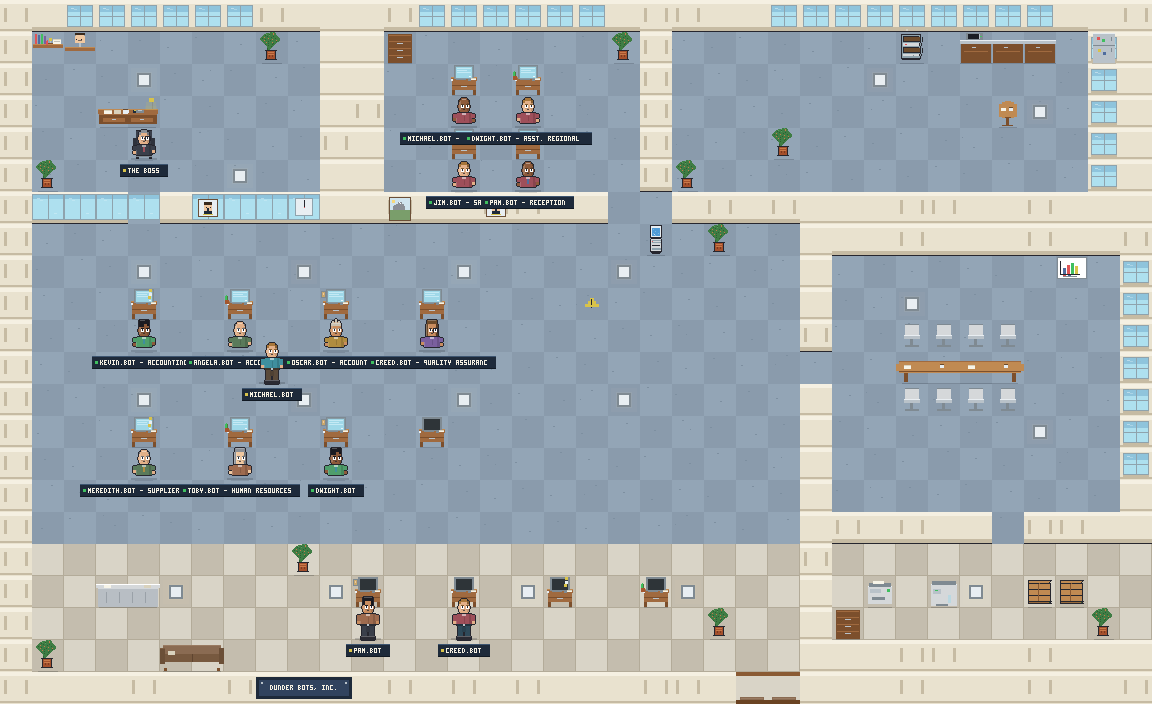
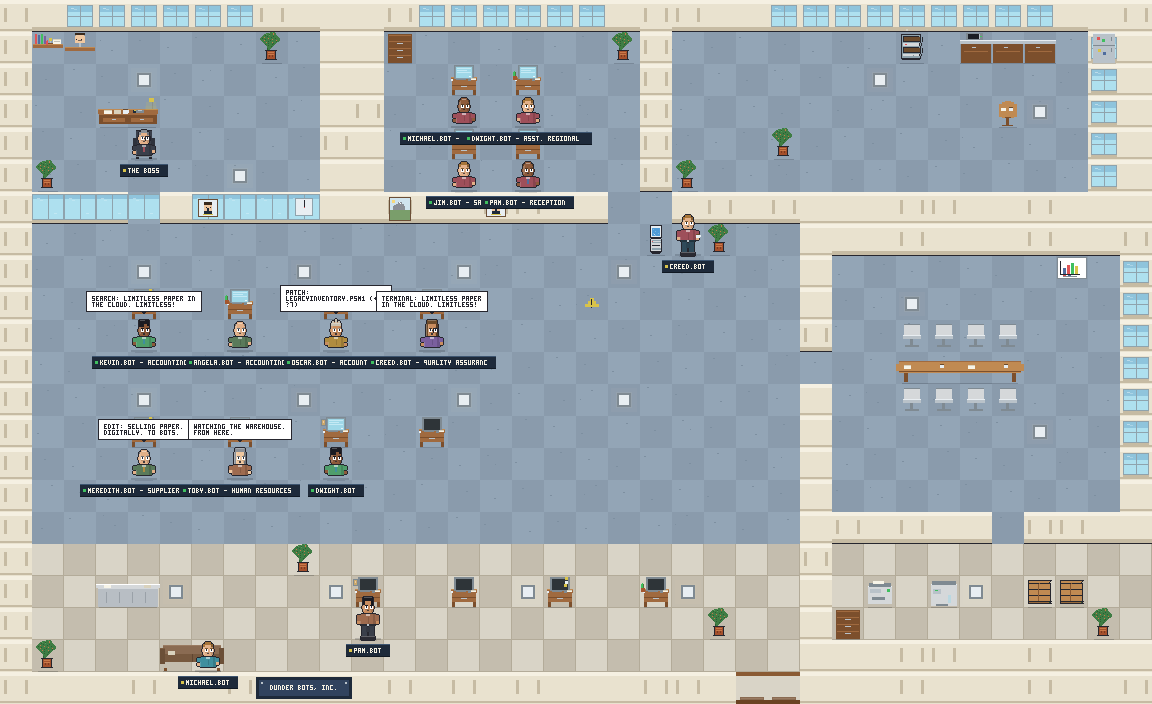
Meetings: bots sit at the conference table and on the sofa
- New 'sit' activity: idle bots walk to a conference chair (or the
  reception sofa) and use the seated frames; sofa sitters step onto the
  cushions via a sitDown waypoint, and goTo now steps off furniture
  before pathing so they can always leave again.
- Idle spot rolls now drift every ~45 simulated seconds, so the office
  reshuffles: desks, watercooler, wander, conference (20%), sofa (10%).
- Seated conference/sofa bots get original meeting chatter and couch
  wisdom in their ambient bubbles.
- Conf chair back/seat widened 1px so it reads behind a seated bot.
- /api/preview?t=<sim-seconds> shifts the deterministic roll bucket;
  verified sofa + conference sitters via pixel probes.

diff --git a/src/office/scene.ts b/src/office/scene.ts
@@ -17,6 +17,7 @@ import {
   isTileFloor,
   isWall,
   tileCenter,
+  WALKABLE,
   type Furniture,
 } from "./floorplan";
 import type { BotSpec } from "../lib/hermes/derive";
@@ -25,6 +26,24 @@ import type { OfficeEvent } from "../lib/hermes/types";
 const SPEED = 46; // px per second
 const BUBBLE_MS = 5200;
 const AMBIENT_MS = 9000;
+
+/** Original meeting-room small talk for bots seated at the round table. */
+const CONFERENCE_TALK = [
+  "This meeting could've been a TPS report.",
+  "Let's take this offline. Wait — we're all offline.",
+  "Circling back is my whole personality.",
+  "Synergy is just teamwork with a budget.",
+  "I've scheduled the follow-up to the pre-follow-up.",
+  "Per my last email… which I just wrote.",
+];
+
+/** Couch wisdom for the reception sofa. */
+const SOFA_TALK = [
+  "Five more minutes, then the inbox. Promise.",
+  "The couch has better WiFi. I checked.",
+  "This is a load-bearing nap.",
+  "Reception is the heart of the company. Ask anyone here.",
+];
 
 /** Ceiling light fixtures — warm floor pools + fixture plates. */
 const LIGHT_FIXTURES: Array<[number, number]> = [
@@ -53,12 +72,12 @@ function shadeHex(a: string, b: string, f: number): string {
   return lerpHex(a, b, f);
 }
 
-type Activity = "stand" | "walk" | "type" | "carry";
+type Activity = "stand" | "walk" | "type" | "carry" | "sit";
 
 interface Waypoint {
   x: number;
   y: number;
-  onArrive?: "pickupPaper" | "dropPaper";
+  onArrive?: "pickupPaper" | "dropPaper" | "sitDown";
 }
 
 interface Entity {
@@ -70,7 +89,7 @@ interface Entity {
   path: Waypoint[];
   activity: Activity;
   deskIdx: number | null;
-  spot: string; // "desk" | "deskStand" | "watercooler" | "wander" | "coffee" | "door" | "conference"
+  spot: string; // "desk" | "deskStand" | "watercooler" | "wander" | "coffee" | "door" | "conference" | "sofa"
   bubble: { text: string; until: number } | null;
   animT: number;
   carry: boolean;
@@ -174,8 +193,8 @@ export class OfficeScene {
     return e;
   }
 
-  /** Where should this status put the bot? */
-  private spotFor(spec: BotSpec): string {
+  /** Where should this status put the bot? Idle bots re-roll every ~45s. */
+  private spotFor(spec: BotSpec, now: number): string {
     const seed = spec.paletteSeed;
     switch (spec.status) {
       case "working":
@@ -186,10 +205,12 @@ export class OfficeScene {
         return "coffee";
       case "idle":
       default: {
-        const roll = seed % 10;
-        if (roll < 5) return "deskStand";
-        if (roll < 8) return "watercooler";
-        return "wander";
+        const roll = (seed + Math.floor(now / 45_000)) % 10;
+        if (roll < 3) return "deskStand";
+        if (roll < 6) return "watercooler";
+        if (roll < 8) return "wander";
+        if (roll < 9) return "conference";
+        return "sofa";
       }
     }
   }
@@ -209,7 +230,12 @@ export class OfficeScene {
   private goTo(e: Entity, tx: number, ty: number, onArrive?: Waypoint["onArrive"]): void {
     const sx = Math.floor(e.x / TILE);
     const sy = Math.floor((e.y - 1) / TILE);
-    const tiles = findPath(sx, sy, tx, ty);
+    let tiles = findPath(sx, sy, tx, ty);
+    if (!tiles.length && (sx !== tx || sy !== ty) && !WALKABLE[sy * MAP_W + sx]) {
+      // standing on furniture (e.g. sofa cushions) — step off north and retry
+      e.y -= TILE;
+      tiles = findPath(sx, sy - 1, tx, ty);
+    }
     const pts: Waypoint[] = tiles.map((p) => ({ ...tileCenter(p.x, p.y) }));
     if (onArrive) pts.push({ x: pts[pts.length - 1]?.x ?? e.x, y: pts[pts.length - 1]?.y ?? e.y, onArrive });
     e.path = pts;
@@ -225,7 +251,7 @@ export class OfficeScene {
       e.spec = spec;
       if (e.lastStatus !== spec.status || !e.path.length) {
         e.lastStatus = spec.status;
-        e.spot = this.spotFor(spec);
+        e.spot = this.spotFor(spec, now);
         this.applySpot(e, now);
       }
     }
@@ -276,6 +302,30 @@ export class OfficeScene {
         const w = ZONES.wander[spec.paletteSeed % ZONES.wander.length];
         e.activity = "stand";
         this.goTo(e, w.x, w.y);
+        break;
+      }
+      case "conference": {
+        // take a seat at the round table (chairs are walkable tiles)
+        const c = ZONES.conference[spec.paletteSeed % ZONES.conference.length];
+        if (
+          e.activity === "sit" &&
+          Math.abs(e.x - tileCenter(c.x, c.y).x) < 1 &&
+          Math.abs(e.y - tileCenter(c.x, c.y).y) < 1
+        )
+          break; // already seated here
+        this.goTo(e, c.x, c.y);
+        break;
+      }
+      case "sofa": {
+        // walk north of the couch, then step onto the cushions and sit
+        const s = ZONES.sofa[spec.paletteSeed % ZONES.sofa.length];
+        if (
+          e.activity === "sit" &&
+          Math.abs(e.x - tileCenter(s.x, s.y).x) < 1 &&
+          Math.abs(e.y - tileCenter(s.x, s.y).y) < 1
+        )
+          break; // already seated here
+        this.goTo(e, s.x, s.y - 1, "sitDown");
         break;
       }
     }
@@ -367,9 +417,20 @@ export class OfficeScene {
             e.delivery = null;
             e.bubble = { text: "Delivered to the boss. Dundie-worthy.", until: now + BUBBLE_MS };
             if (e.spec) this.applySpot(e, now);
+          } else if (target.onArrive === "sitDown") {
+            // step from the tile north of the sofa onto the cushions
+            e.y += TILE;
+            e.activity = "sit";
           }
           if (!e.path.length && e.activity === "walk") {
-            e.activity = e.carry ? "carry" : e.spot === "desk" ? "type" : "stand";
+            e.activity =
+              e.carry
+                ? "carry"
+                : e.spot === "desk"
+                  ? "type"
+                  : e.spot === "conference" || e.spot === "sofa"
+                    ? "sit"
+                    : "stand";
           }
         } else {
           e.x += (dx / dist) * step;
@@ -388,7 +449,11 @@ export class OfficeScene {
       if (e.spec && now > e.lastAmbient) {
         e.lastAmbient = now + AMBIENT_MS * (0.7 + Math.random() * 0.8);
         if (!e.bubble || e.bubble.until < now) {
-          const t = e.spec.statusText;
+          let t = e.spec.statusText;
+          if (e.activity === "sit" && Math.random() < 0.5) {
+            const pool = e.spot === "conference" ? CONFERENCE_TALK : SOFA_TALK;
+            t = pool[Math.floor(Math.random() * pool.length)];
+          }
           if (t) e.bubble = { text: t, until: now + BUBBLE_MS };
         }
       }
@@ -913,10 +978,11 @@ export class OfficeScene {
   }
 
   private drawConfChair(t: PixelTarget, px: number, py: number): void {
-    t.rect(px + 9, py + 4, 14, 11, C.plastic);
-    t.rect(px + 9, py + 4, 14, 1, C.metalDark);
-    t.rect(px + 8, py + 15, 16, 4, C.metal);
-    t.rect(px + 8, py + 15, 16, 1, C.metalHi);
+    // back/seat 1px wider than the sitter's torso so the chair reads behind them
+    t.rect(px + 8, py + 4, 16, 11, C.plastic);
+    t.rect(px + 8, py + 4, 16, 1, C.metalDark);
+    t.rect(px + 7, py + 15, 18, 4, C.metal);
+    t.rect(px + 7, py + 15, 18, 1, C.metalHi);
     t.rect(px + 14, py + 19, 3, 6, C.metalDark);
     t.rect(px + 9, py + 25, 14, 2, C.metalDark);
   }
@@ -1093,7 +1159,7 @@ export class OfficeScene {
     let frame: "stand" | "walkA" | "walkB" | "sitA" | "sitB" | "carry" = "stand";
     if (e.activity === "walk" || e.activity === "carry") {
       frame = Math.floor(e.animT * 6) % 2 === 0 ? "walkA" : "walkB";
-    } else if (e.activity === "type") {
+    } else if (e.activity === "type" || e.activity === "sit") {
       frame = Math.floor(e.animT * 3) % 2 === 0 ? "sitA" : "sitB";
     }
     if (e.carry && e.activity !== "type") frame = "carry";
@@ -1118,7 +1184,7 @@ export class OfficeScene {
       t.rect(bpx + 28, bpy + 25, 1, 2, "#e8eef2");
     }
 
-    const seated = e.activity === "type";
+    const seated = e.activity === "type" || e.activity === "sit";
     const top = Math.round(e.y) - (seated ? SEATED_H + 2 : CHAR_H + 2);
     const px = Math.round(e.x) - CHAR_W / 2;
 
@@ -1191,7 +1257,7 @@ export class OfficeScene {
     const maxLen = Math.max(...lines.map((l) => l.length));
     const w = maxLen * 4 + 12;
     const h = lines.length * 6 + 9;
-    const seated = e.activity === "type";
+    const seated = e.activity === "type" || e.activity === "sit";
     let bx = Math.round(e.x - w / 2);
     let by = Math.round(e.y) - (seated ? 40 : 52) - h;
     bx = Math.max(2, Math.min(MAP_W * TILE - w - 2, bx));

diff --git a/src/app/api/preview/route.ts b/src/app/api/preview/route.ts
@@ -99,7 +99,10 @@ export async function GET(req: Request) {
   const snap = await fetchMockSnapshot();
   const bots = deriveBots(snap);
   const scene = new OfficeScene();
-  const now = 1_800_000; // fixed clock → deterministic frame
+  const tRaw = new URL(req.url).searchParams.get("t");
+  const tNum = tRaw === null ? NaN : Number(tRaw);
+  const now = Number.isFinite(tNum) && tNum > 0 ? tNum : 1_800_000; // fixed clock → deterministic frame
+  // (idle bots re-roll spots every 45 simulated seconds, so ?t= shifts who sits where)
 
   const hourRaw = new URL(req.url).searchParams.get("hour");
   const hour = hourRaw === null ? NaN : Number(hourRaw);

diff --git a/src/office/floorplan.ts b/src/office/floorplan.ts
@@ -332,8 +332,9 @@ export const ZONES = {
   boss: { x: 3, y: 5 },
   reception: { x: 4, y: 19 },
   sofa: [
-    { x: 5, y: 19 },
-    { x: 6, y: 19 },
+    // the sofa cushions themselves; bots walk north of them, then step on
+    { x: 5, y: 20 },
+    { x: 6, y: 20 },
   ],
   conference: [
     { x: 28, y: 10 },

diff --git a/README.md b/README.md
@@ -153,6 +153,10 @@ tools/
   photo frames), a microwave in the kitchen, the Dundie award on the shelf,
   Employee-of-the-Month portraits, a motivational poster, a wet-floor sign,
   and a big *DUNDER BOTS, INC.* sign over reception.
+- **Meetings & the couch** — idle bots re-roll their spot every ~45s:
+  some take seats at the round table (chair backs peek around them) or
+  lounge on the reception sofa, trading original small talk in bubbles.
+  `/api/preview?t=<sim-seconds>` shifts the roll for deterministic renders.
 - Bot movement is BFS over the walkable tile grid; states map to locations
   (desk seat, watercooler, coffee machine, conference seats, boss office,
   printer for paper errands). Hovering a bot highlights it; clicking selects.
